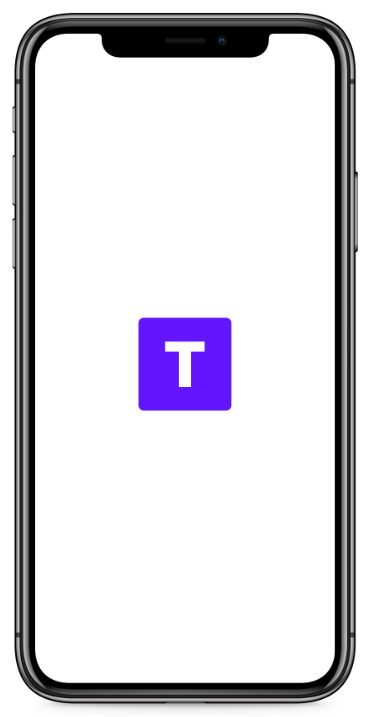
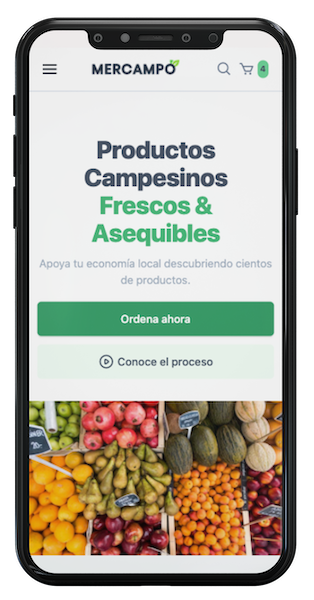
🖼  Change app mockup

diff --git a/src/components/app-mockup.js b/src/components/app-mockup.js
@@ -5,7 +5,7 @@ import AppImg from '../images/app-mockup.png'
 const AppMockup = () => {
   return (
     <div className="bg-gray-800">
-      <div className="max-w-screen-xl mx-auto py-12 px-4 sm:px-6 lg:py-16 lg:px-8 lg:flex lg:items-center lg:justify-between">
+      <div className="max-w-screen-xl mx-auto py-12 px-4 sm:px-6 lg:py-16 lg:px-8 flex flex-col items-center text-center lg:text-left lg:flex-row lg:justify-between">
         <h1 className="text-4xl leading-7 font-extrabold tracking-tight text-gray-100 sm:text-5xl sm:leading-10 md:mx-12">
           Personas a tu alrededor están ordenando frescos productos usando
             <span className="text-green-400"> Mercampo App.</span>
@@ -15,7 +15,7 @@ const AppMockup = () => {
             src={AppImg}
             loading="lazy"
             alt="App Muckup"
-            className="h-full w-full object-cover"
+            className="h-auto w-auto object-cover"
           />
         </div>
       </div>
